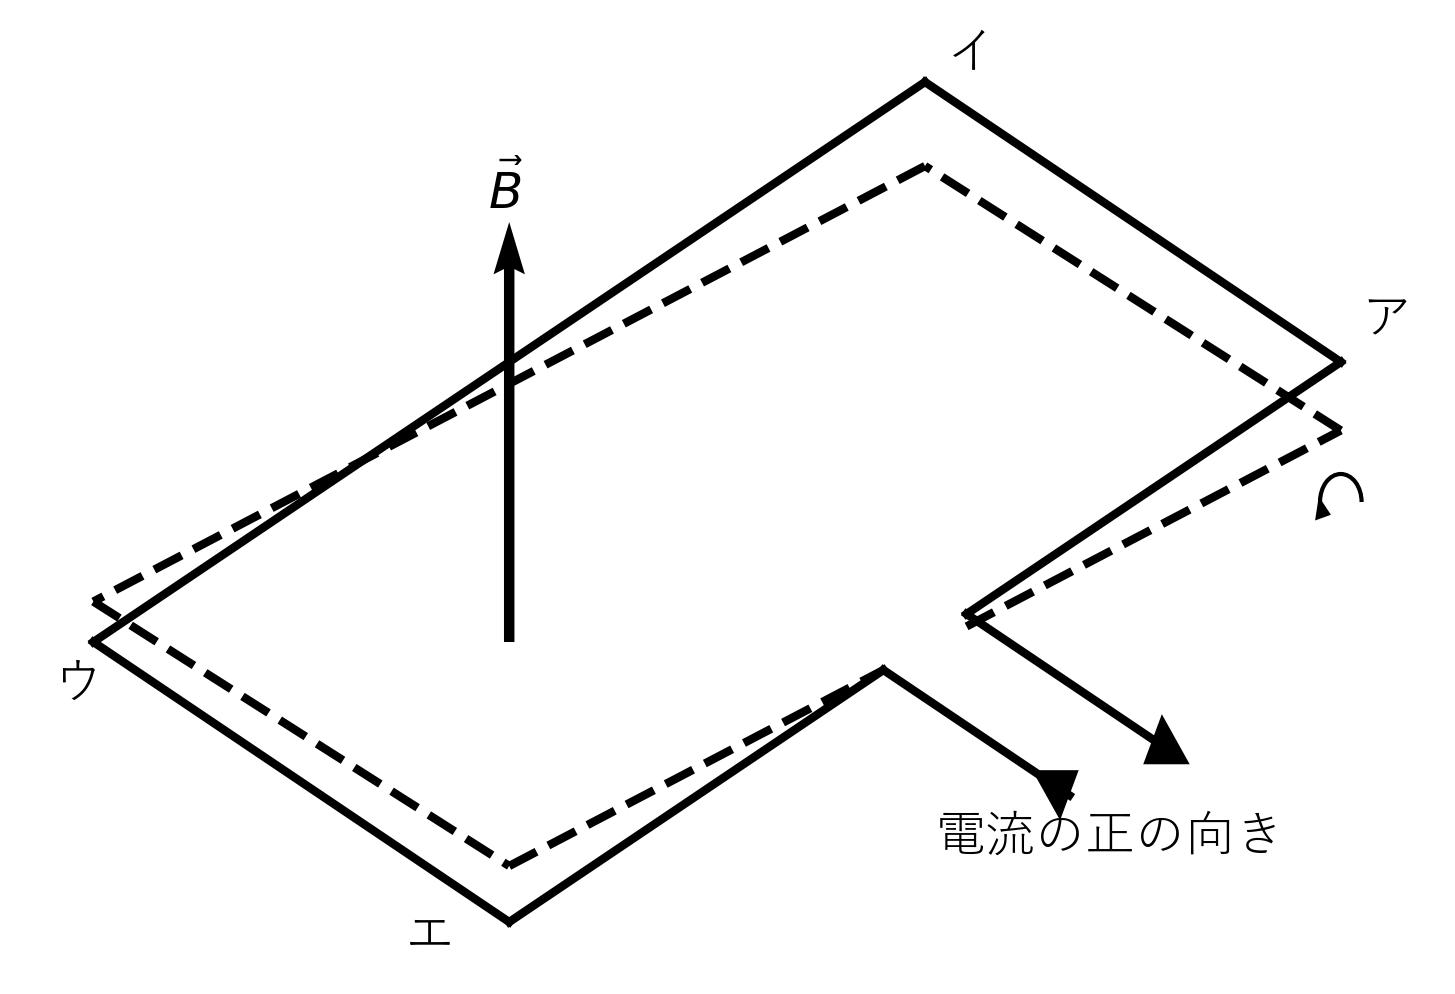
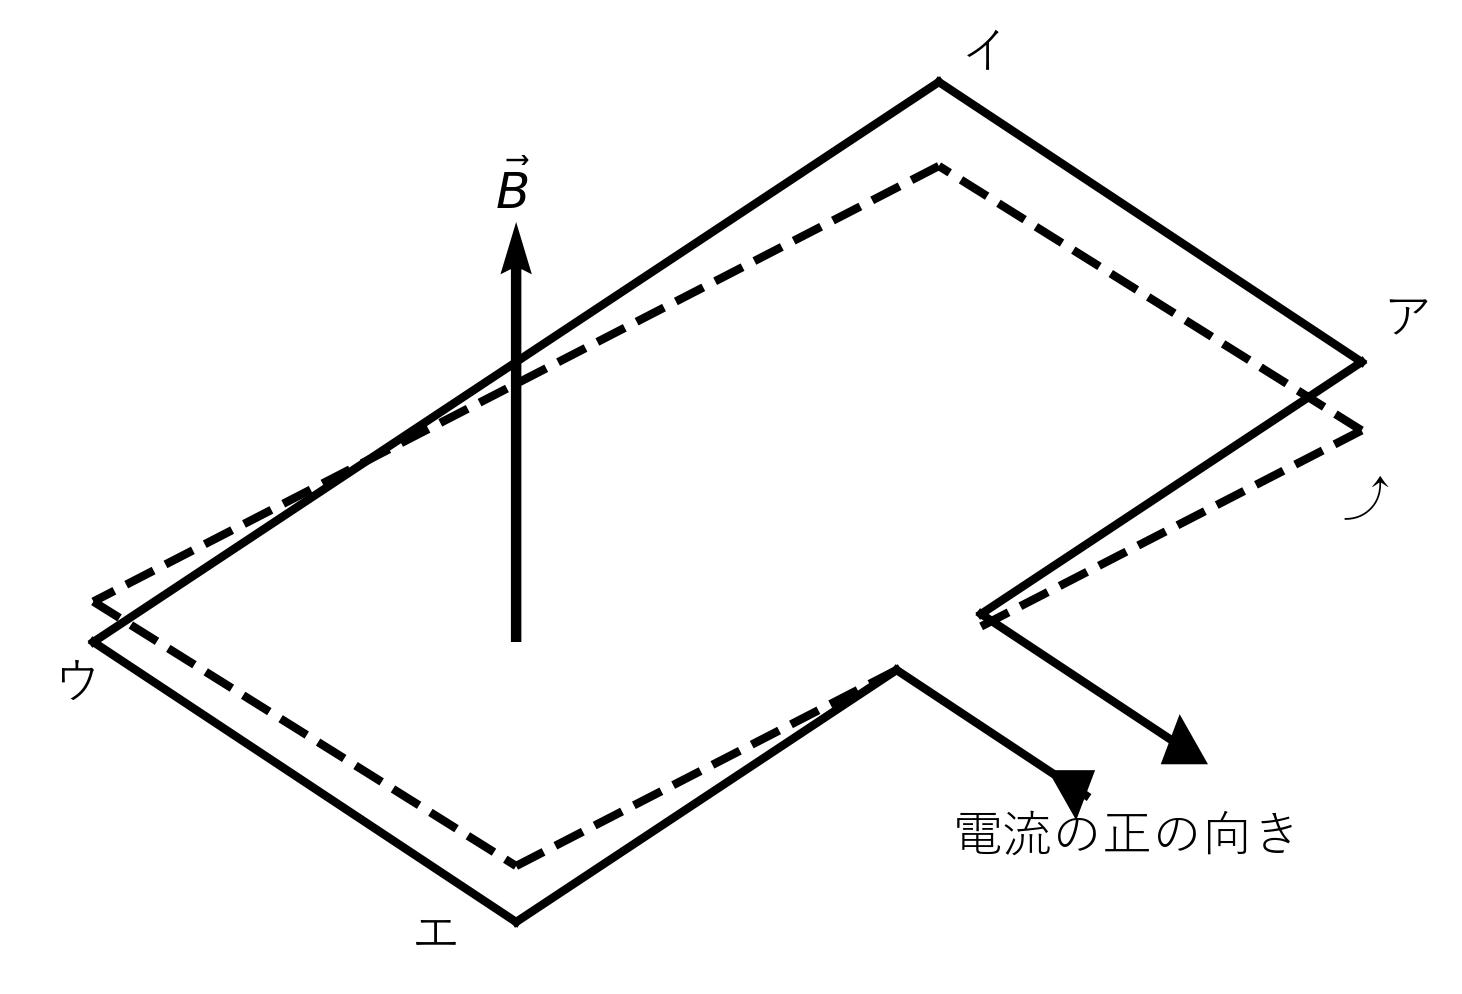
⤴

diff --git a/kakomon/2024-3-kisobuturi3-5.py b/kakomon/2024-3-kisobuturi3-5.py
@@ -87,34 +87,9 @@ def draw_parallelogram():
              "電流の正の向き", fontsize=12, ha='center', fontfamily='Yu Gothic')
     
         # ここから新たにアの下側に半円と矢印を描画
-    # 半円はア (A) の下側に描く
-    # ここでは Arc を用い、中心を (6,3.5)、半径を非常に小さく r = 0.1 とし、
-    #  theta1=0, theta2=180 として右側から左側への半円を描く
     arc_center = (6, 3.5)
-    r = 0.1
-    arc_patch = Arc(arc_center, width=2*r, height=2*r, angle=0, theta1=0, theta2=180, color='k', lw=1)
-    plt.gca().add_patch(arc_patch)
-    
         # --- アの下側に描いた半円の上端に付く矢印（三角形）の描画 ---
-    # 半円の上端（theta = 180°）は
-    arc_tip = (arc_center[0] + r*math.cos(math.radians(180)),
-               arc_center[1] + r*math.sin(math.radians(180)))  # (6 - r, 3.5)
-    
-    # 三角形（矢印）の描画
-    # 矢印の先端は arc_tip とする
-    T = arc_tip
-    # 矢印の向きを示すベクトルを、右に45°回転させる（例：v = (–0.2588, 0.9659)）
-    v = (-0.2588, 0.9659)
-    arrow_height = 0.05  # 三角形の高さ
-    arrow_half = 0.025   # 三角形の底辺の半分の長さ
-    # 基準となる底点（中心）は、先端から arrow_height 分 v の逆方向へ
-    base_center = (T[0] - arrow_height*v[0], T[1] - arrow_height*v[1])
-    # v に垂直（反時計回り90°）の単位ベクトルを求める
-    perp = (-v[1], v[0])  # この場合、 perp ≒ (-0.9659, -0.2588)
-    base_left = (base_center[0] + arrow_half*perp[0], base_center[1] + arrow_half*perp[1])
-    base_right = (base_center[0] - arrow_half*perp[0], base_center[1] - arrow_half*perp[1])
-    arrow_triangle = [T, base_left, base_right]
-    plt.fill(*zip(*arrow_triangle), color='k')
+    plt.text(arc_center[0] - 0.1, arc_center[1] - 0.05, "⤴", fontsize=12)
 
     # （元の平行四辺形の頂点ラベル個別設定例）
     # ア：A のラベル（例：右上に配置）
